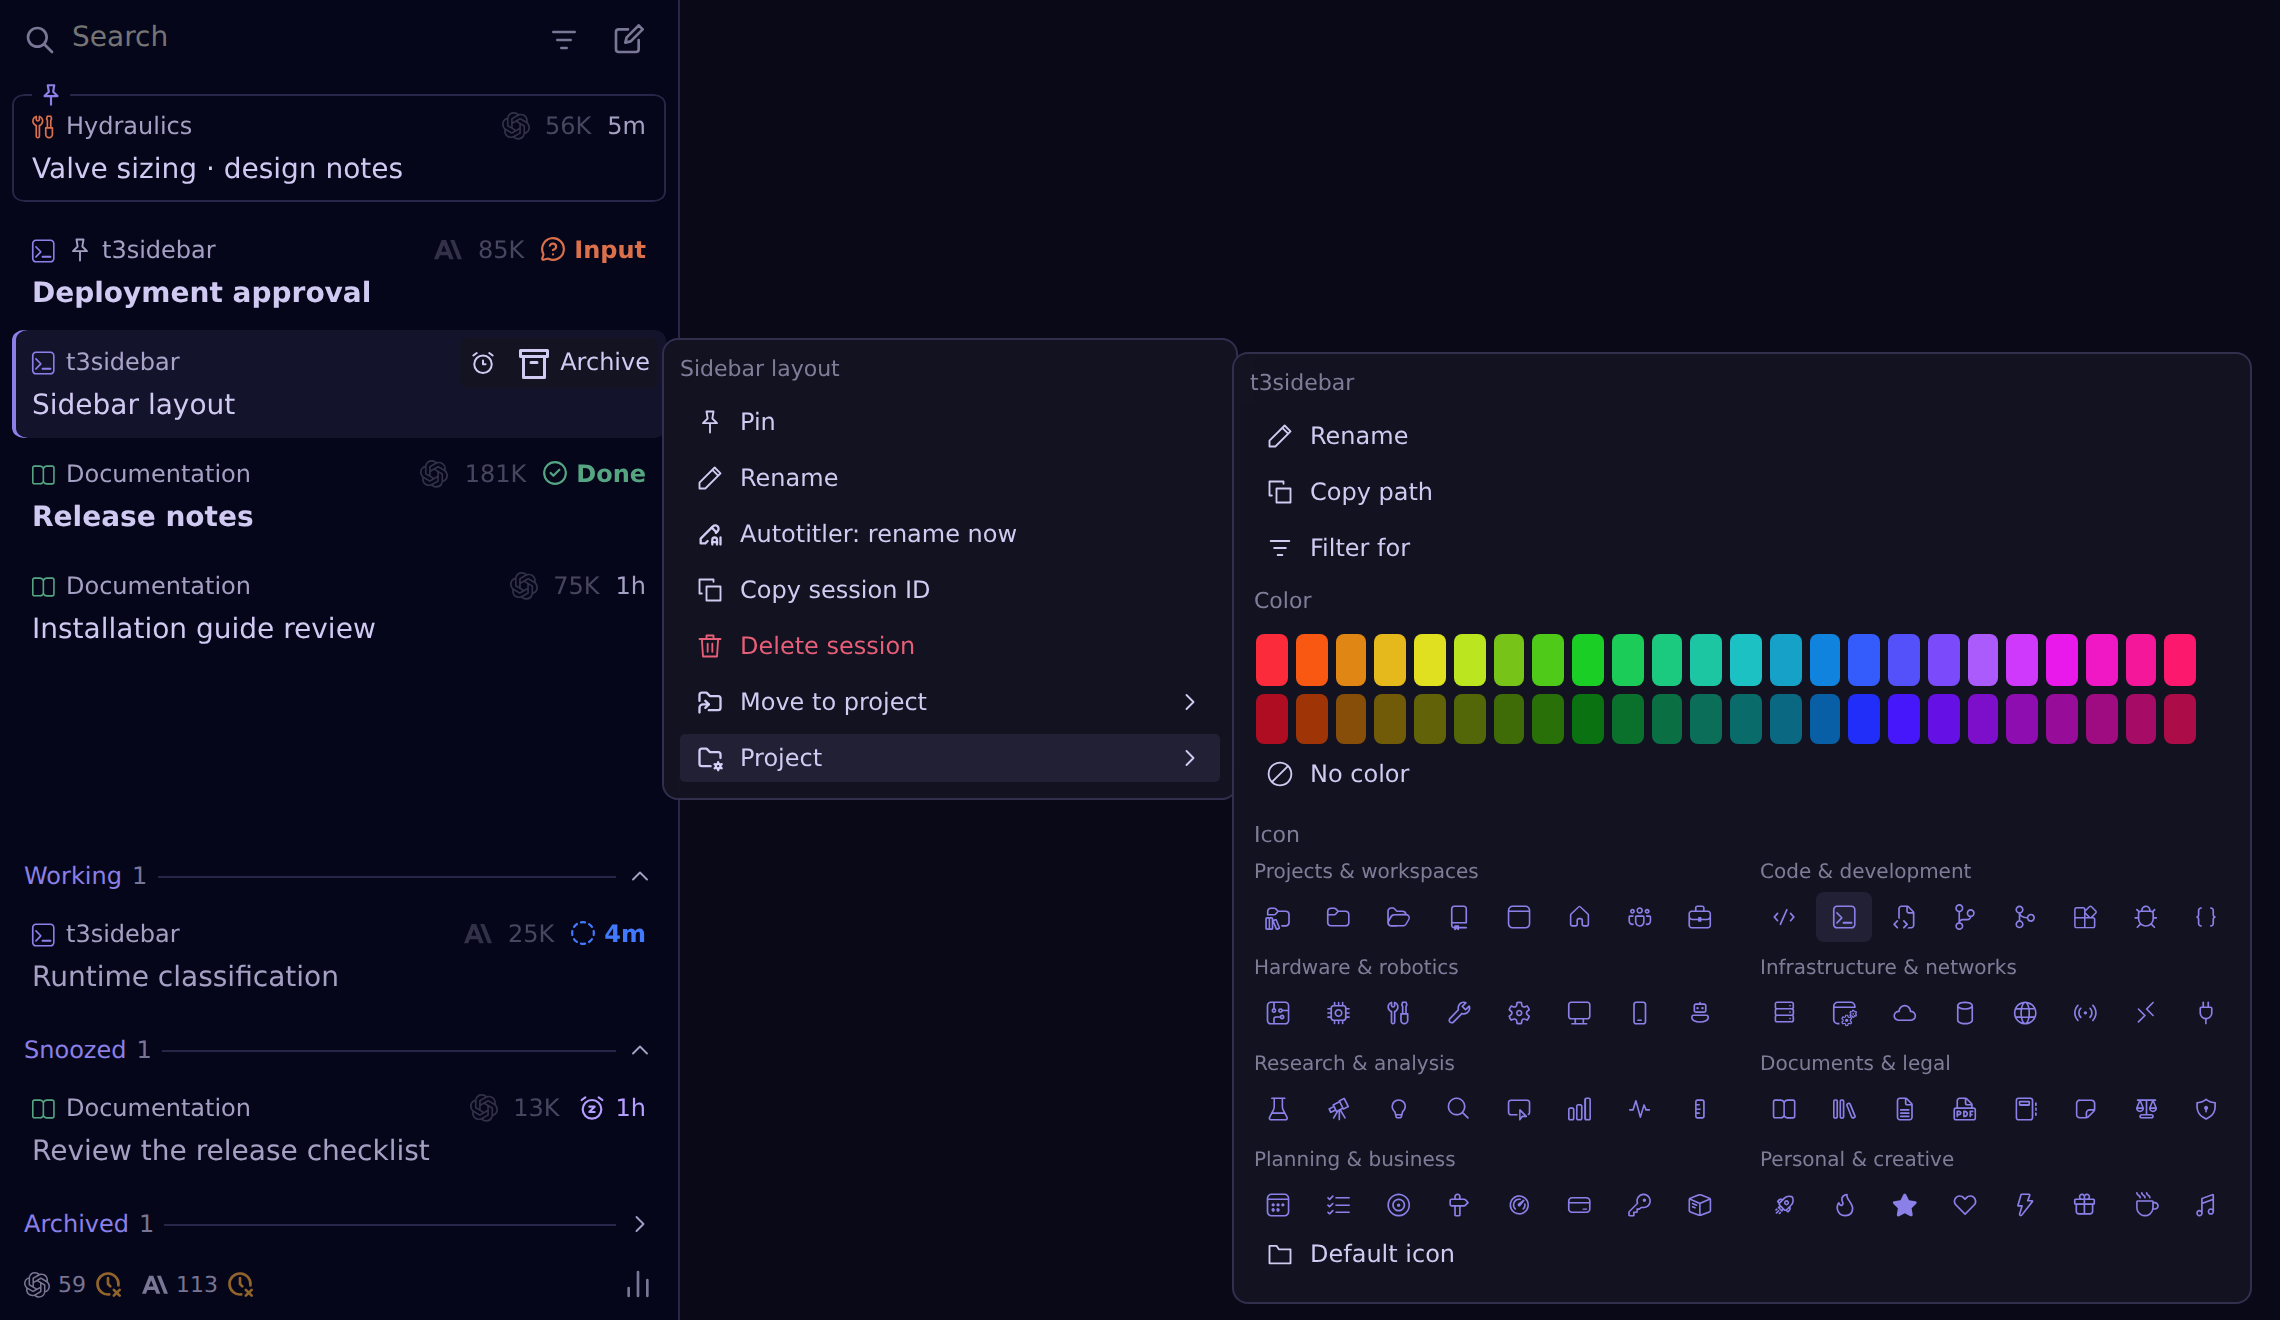
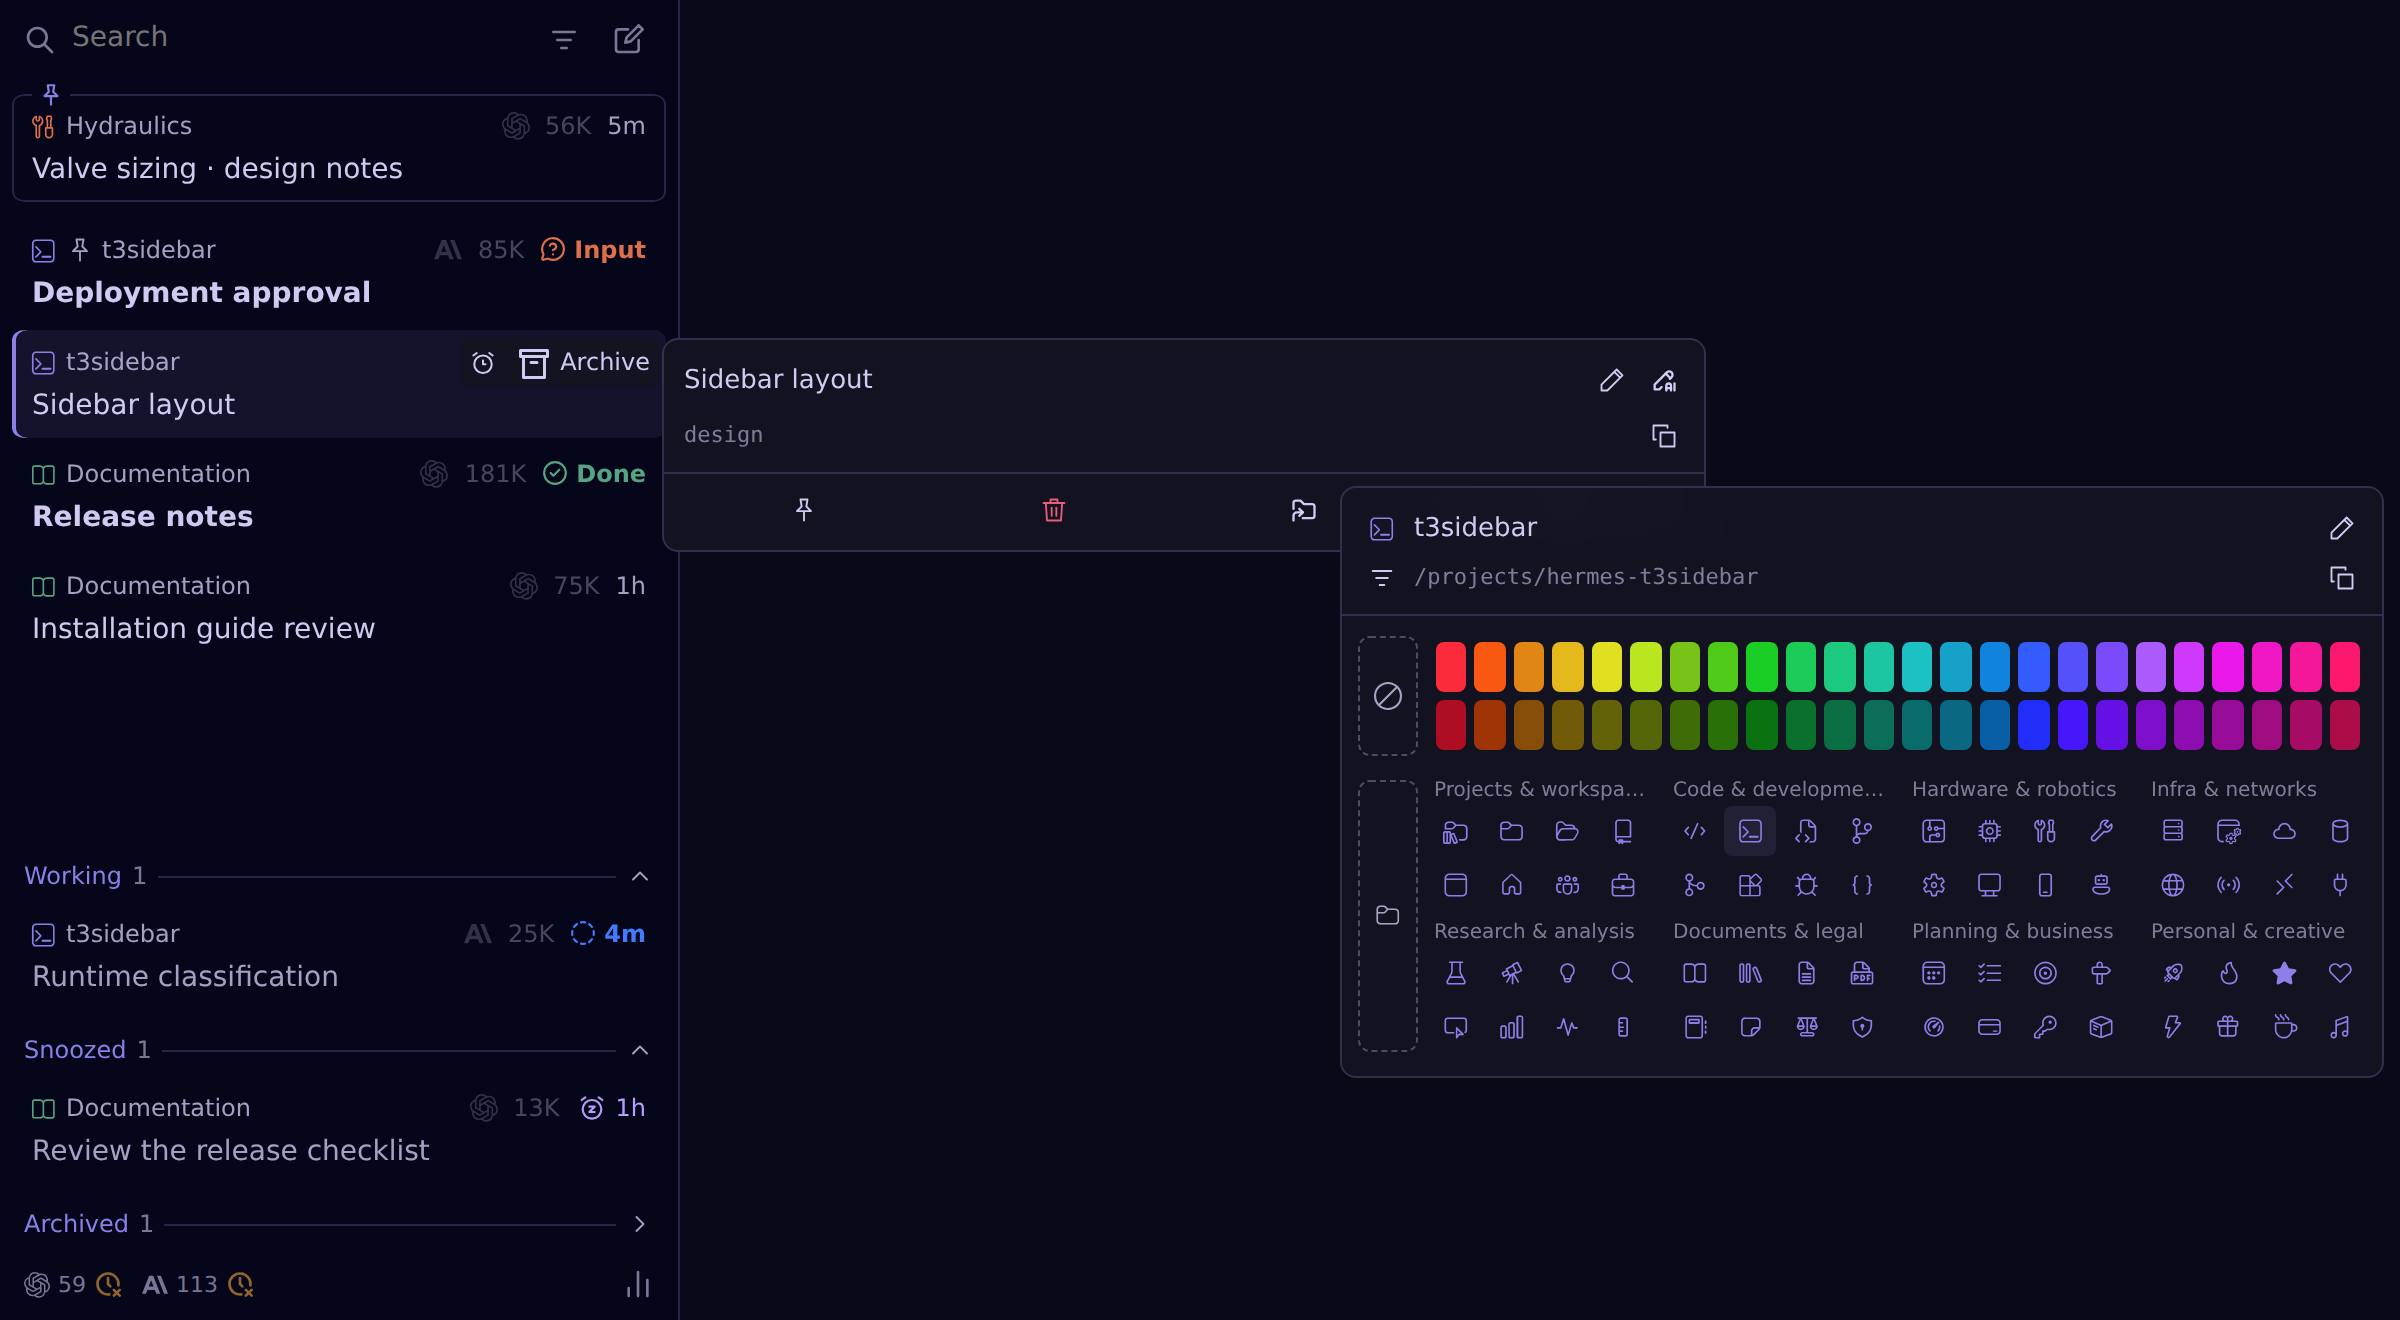
docs: refresh README screenshots for the new menus and grey OpenAI
The session menu (title line with Rename with AutoTitler, Project menu), the Snooze menu and the grey OpenAI series changed since the last capture.

diff --git a/README.md b/README.md
@@ -23,7 +23,7 @@
 - Right-click a session → the AI pencil beside its title (**Rename with AutoTitler**): AutoTitler retitles it from its current topic, or keeps the title.
 - Needs the [hermes-auto-titler](https://github.com/Vocllum/hermes-auto-titler) plugin loaded on the backend; otherwise the action stays visible, disabled, with the reason on hover.
 
-![Session right-click menu with Autotitler: rename now highlighted below Rename](docs/images/autotitler.png)
+![Session right-click menu: Rename with AutoTitler hovered beside Rename, at the end of the title line](docs/images/autotitler.png)
 
 ### Detailed Working indicator
 
@@ -70,14 +70,14 @@
 
 - Right-click: title with rename and AutoTitler, session ID with copy, the start of an unsent draft with discard, then pin, delete, move to project and **Project**. **Project** menu: rename, then filter (a cross while that folder filters the list) and copy path for each folder, color and icon. Session, Project and Snooze menus stay open after an action, showing its reverse.
 
-![Session right-click menu with the Project submenu expanded: project actions, colors and icons](docs/images/session-project.png)
+![Session right-click menu with the Project menu open: folder path with filter and copy, colors and icons](docs/images/session-project.png)
 
 ### Snooze
 
 - +1h, +2h, +4h; Tomorrow, Monday or Next week at the preset time; or a custom local date and time.
 - Never stops or resumes an agent.
 
-![Snoozed session menu: wake date and time left, Unsnooze, presets and custom date input](docs/images/snooze.png)
+![Snoozed session menu: wake date and time left, Unsnooze, +1h, +2h, +4h, Tomorrow, Monday and Next week at 9:00, custom date input](docs/images/snooze.png)
 
 ### Settings
 
